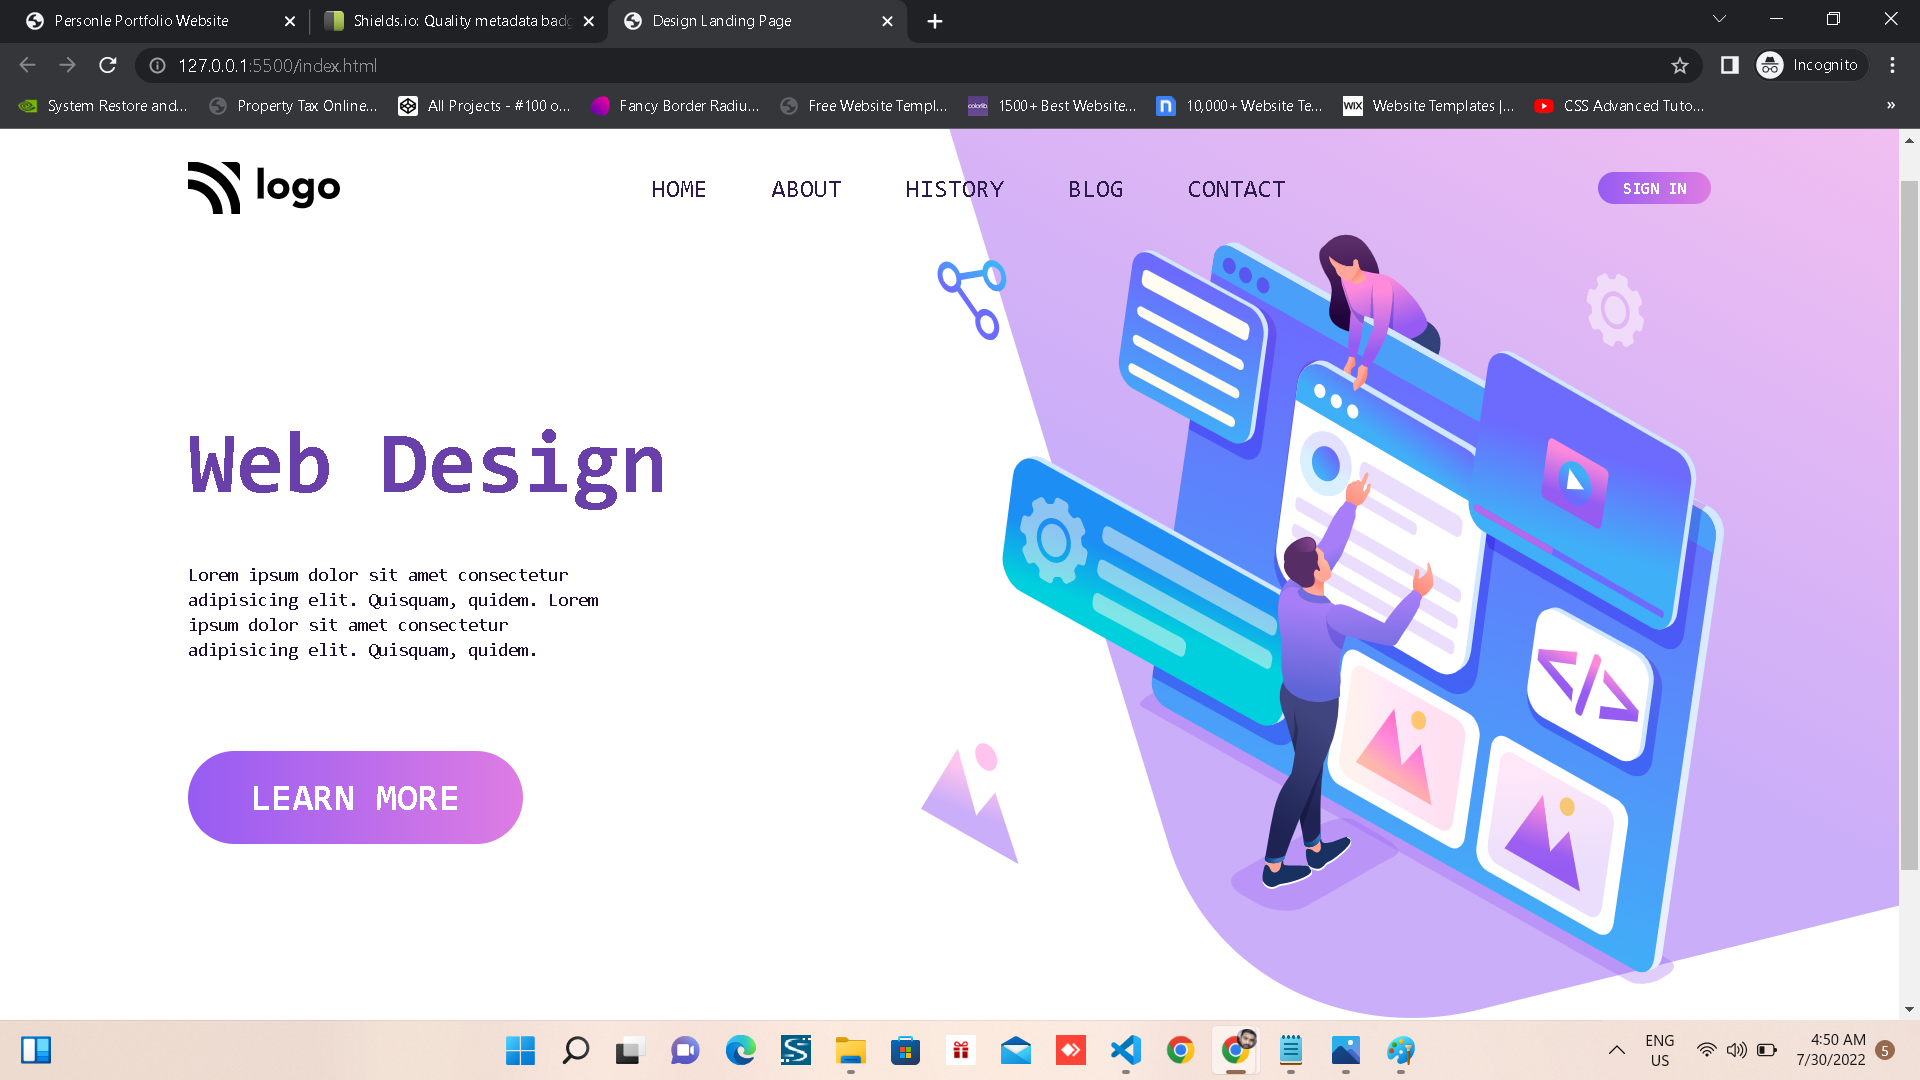
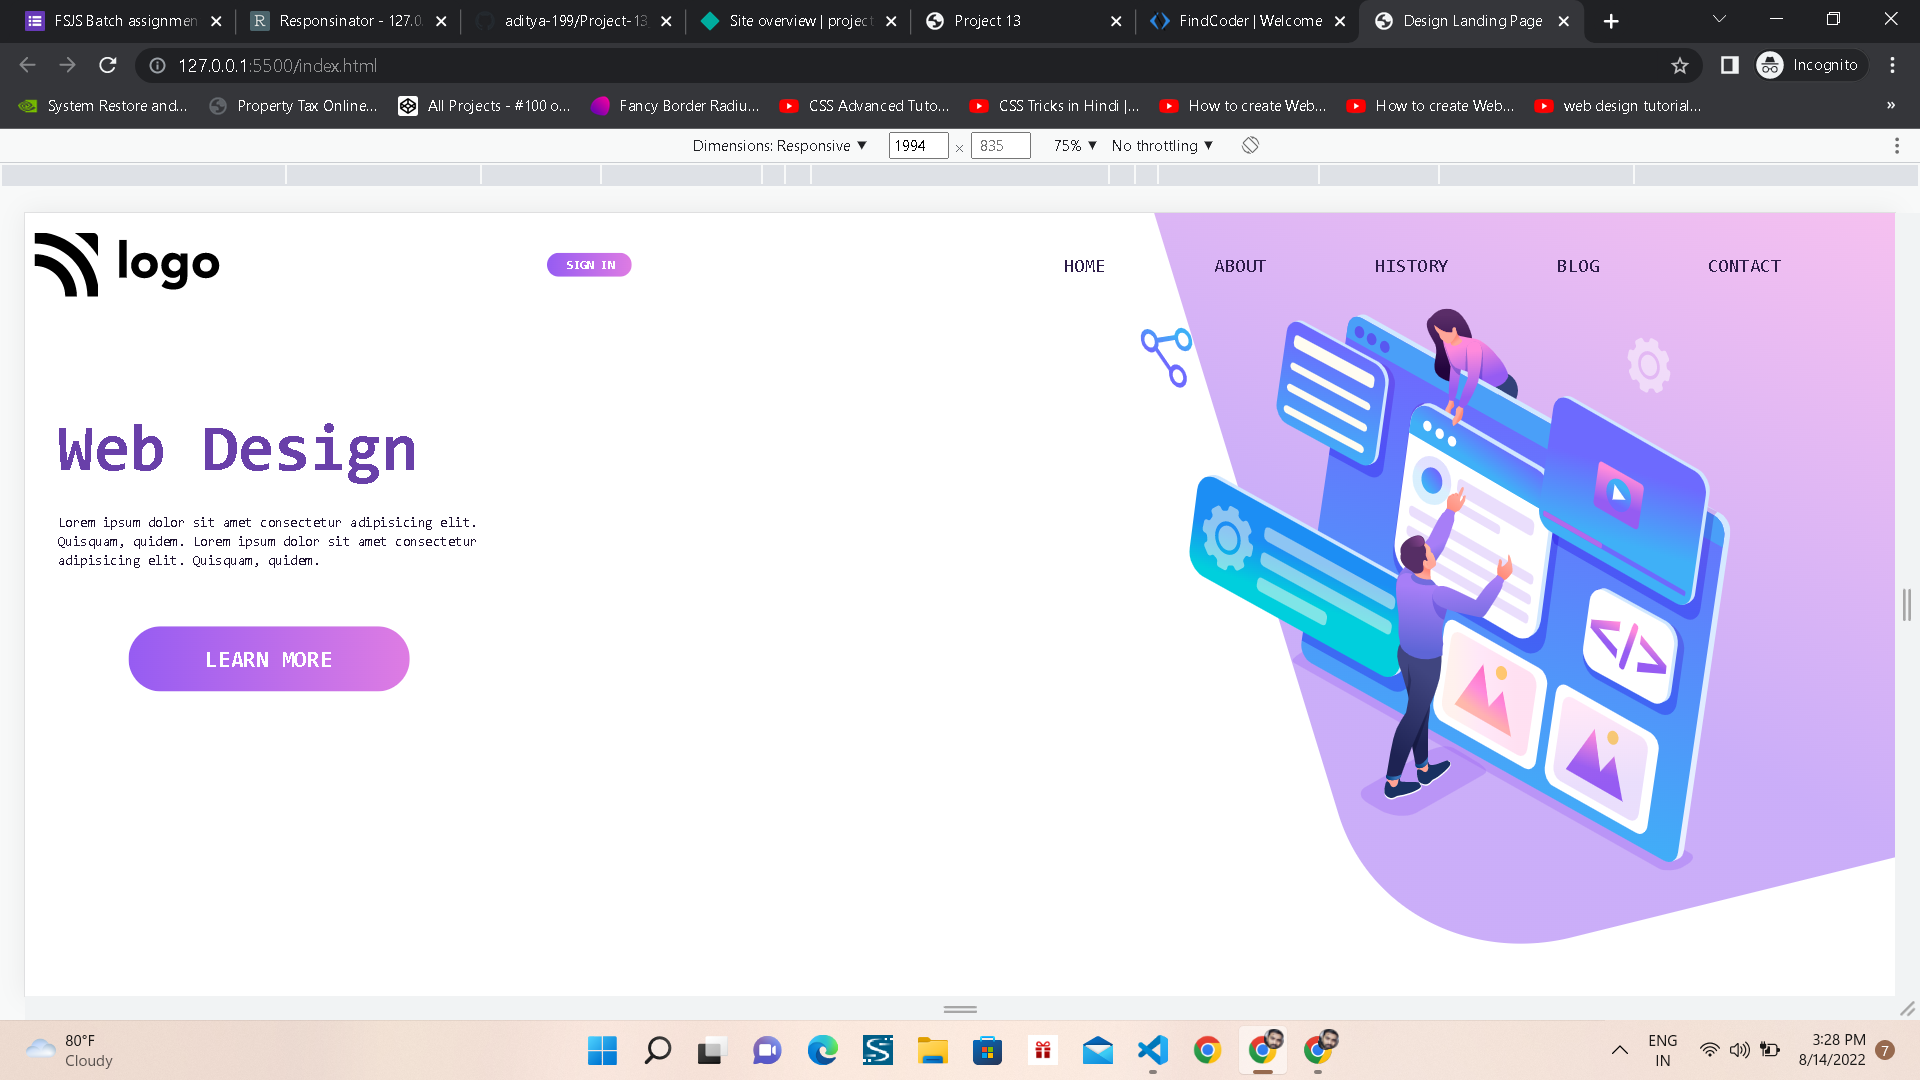
Responsive Design

diff --git a/css/index.css b/css/index.css
@@ -17,7 +17,131 @@ body{
     overflow-x: hidden;
 }
 
+.main-div{
+    padding: 1rem 1rem;
+}
+
+nav{
+    display: flex;
+    flex-wrap: wrap;
+    max-width: 90%;
+    margin: 0 auto;
+    justify-content: space-between;
+    /* background-color: #6940a9; */
+    align-items: center;
+}
+
+nav .logo{
+    max-width: 20%;
+}
+
+nav .hamburger{
+    min-width: 6%;
+    height: 3rem;
+    margin: auto 1rem;
+}
+
+.nav-items{
+    transform: scale(1,0);
+    padding-right: 1rem;
+    width: 100%;
+    font-size: 2rem;
+    font-weight: 500;
+    text-align: right;
+    /* background-color: aqua; */
+    transition: transform .3s linear;
+    transform-origin: top;
+}
+
+.show {
+    transform: scale(1,1);
+}
+
+.nav-item{
+    padding: .5rem;
+}
+
+.signin-btn{
+    padding: 1rem;
+    font-weight: 500;
+    margin: auto 0;
+    align-self: flex-end;
+}
+
+.intro-section{
+    display: flex;
+    flex-direction: column-reverse;
+}
+
+.left-section{
+    max-width: 70%;
+    width: 500px;
+    margin: auto auto;
+    text-align: center;
+    position: relative;
+    top: 0;
+}
+
+.left-section h1{
+    max-width: 100%;
+    font-size: 5rem;
+    padding-bottom: 3rem;
+}
+
+.left-section h4{
+    font-size: 1.5rem;
+    font-weight: 200;
+    line-height: 2rem;
+}
+
+.learn-more-btn{
+    margin-top: 3rem;
+    padding: 2rem 4rem;
+    font-size: 2.2rem;
+    font-weight: 500;
+    border: none;
+    outline: none;   
+}
+
 button{
+    background-image: linear-gradient(to right ,#965CF2,#DE7CE3);
+    border-radius: 4rem;
+    border: none;
+    color: var(--btn-color);
+}
+
+.imgs-div{
+    margin: 0 auto;
+    /* background-color: aqua; */
+}
+
+.imgs-div img{
+    max-width: 80%;
+    z-index: -1;  
+}
+
+.imgs-div .intro-img{
+    position: relative;
+}
+
+.imgs-div .vector-img{
+    max-width: 3.4rem;
+    position: relative;
+    bottom: 2rem;
+    left: 6rem;
+}
+
+.imgs-div .vector-dot{
+    width: 1rem;
+    position: relative;
+    bottom: 5rem;
+    left: 3.5rem;
+}
+
+@media (min-width: 800px){
+ 
+button{
+    /* all: unset; */
     background-image: linear-gradient(to right ,#965CF2,#DE7CE3);
     border-radius: 4rem;
     border: none;
@@ -38,31 +162,33 @@ h4{
 }
 
 .main-div{
-    padding: 2rem 15rem;
+    padding: 2rem 1rem;
     position: relative;
 }
-.main-div::after{
+.main-div::before{
     content: url(/images/backcover.svg);
     position: absolute;
-    right: 0;
-    top: 0;
+    top: -130px;
+    right: 18px;
     z-index: -1;
-    transform: translate(91px, -168px)
+    transform: translate(100px, -3px);
 }
+
 .main-div nav{
+    all: unset;
     display: flex;
     justify-content: space-between;
     align-items: center;
-    width: 100%;
-    height: 12rem;
+    max-width: 100%;
 }
 
 nav img{
+    /* all: unset; */
     width: 10%;
-    /* height: inherit; */
 }
 
 .nav-items{
+    all: unset;
     display: flex;
     height: inherit;
     width: 50%;
@@ -73,79 +199,93 @@ nav img{
 .signin-btn{
     padding: 0.5rem 2rem;
     font-weight: 650;
-    
 }
 
+.hamburger{
+    display: none;
+}
 
 .intro-section{
-    width: 100%;
-    height: 100%;
-    display: flex;
-    justify-content: space-between;
-    /* background-image: linear-gradient(to right ,#965CF2,#DE7CE3); */
-    align-items: flex-start;
+    all: unset;
+    max-width: 100%;
+    /* height: 100%; */
+   display: flex;
+   justify-content: space-between;
+   align-items: flex-start;
 }
 
 .intro-section h1{
-    width: 45rem;
+    /* all: unset; */
+    max-width: 90%;
+    width: 50rem;
     line-height: 8rem;
     font-size: 7rem;
-    margin-bottom: 4rem;
 }
 
 .intro-section h4{
-    width: 35rem;
+    /* all: unset; */
+    max-width: 90%;
+    width: 50rem;
     line-height: 2rem;
     font-weight: 300;
     font-size: 1.5rem;
-    margin-bottom: 7rem;
+    margin-bottom: 3rem;
 }
 
 .left-section{
+    all: unset;
     display: flex;
-    /* margin-top:  */
-    width: 50%;
-    height: 60rem;
+    max-width: 50%;
+    /* height: 60rem; */
     margin-top: 12rem;
-    align-items: flex-start;
-
-    flex-direction: column;
-    
+    align-items: center;
+    flex-direction: column;  
 }
 
 .left-section .learn-more-btn{
+    /* all: unset; */
     padding: 2rem 5rem;
     font-weight: 650;
-    font-size: 3rem;
+    font-size: 2.5rem;
+    max-width: 90%;
+    width: 30rem;
 }
 
 .imgs-div{
-    height: 60rem;
-    width: 50%;
-    display: flex;
-    justify-content: center;
-    align-items: center;
-    position: relative;
-}
-
-.imgs-div img{
-    position: absolute;
+    /* all: unset; */
+        padding: 1rem 2rem;
+        min-width: 60%;
+        /* width: 9rem; */
+        display: flex;
+        justify-content: flex-end;
+        align-items: flex-end;
+        position: relative;
+        margin: 8rem auto;
+        align-content: center;
 }
 
 .imgs-div img:first-child{
-    left: -33px;
-    bottom: 107px;
-    transform: scale(0.8);
+    left: 12rem;
+    bottom: -41rem;
+    transform: scale(2);
+    display: none;
+
 }
 
 .imgs-div img:nth-child(2){
-    left: 20px;
-    bottom: 193px;
+    left: 14rem;
+    all: unset;
+    bottom: -36rem;
+    transform: scale(2);
+    position: absolute;
+    display: none;
 }
 
 .imgs-div img:last-child{
-    /* width: 1re; */
+    /* all: unset; */
     height: 60rem;
     position: absolute;
-    top: -23px; 
+    top: -69px; 
+}
+
 }

diff --git a/index.html b/index.html
@@ -15,16 +15,21 @@
 <body>
   <div class="main-div">
     <nav>
-      <img src="./images/logo.svg" alt="logo" />
-      <div class="nav-items">
+      <img src="./images/logo.svg" class="logo" alt="logo" />
+      
+      <button class="signin-btn">SIGN IN</button>
+      
+      <img src="/images/hamburger.png" class="hamburger" alt="hamburger">
+
+      <div class="nav-items ">
         <h5 class="nav-item">HOME</h5>
         <h5 class="nav-item">ABOUT</h5>
         <h5 class="nav-item">HISTORY</h5>
         <h5 class="nav-item">BLOG</h5>
         <h5 class="nav-item">CONTACT</h5>
       </div>
-      <button class="signin-btn">SIGN IN</button>
     </nav>
+
     <div class="intro-section">
       <div class="left-section">
         <h1>Web Design</h1>
@@ -38,11 +43,13 @@
       <div class="imgs-div">
         <img src="./images/vector.svg" alt="vector-img" class="vector-img" />
         <img src="./images/vector-dot.svg" alt="vector-dot" class="vector-dot" />
-        <img src="./images/intro-img.svg" alt="intro-img" />
+        <img src="./images/intro-img.svg" alt="intro-img" class="intro-img"/>
         <!-- <img class="backcover" src="./images/backcover.svg" alt="backcover"> -->
       </div>
     </div>
   </div>
+
+  <script src="/index.js"></script>
 </body>
 
 </html>

diff --git a/index.js b/index.js
@@ -1,0 +1,7 @@
+const hamburger = document.querySelector(".hamburger");
+
+const navList = document.querySelector(".nav-items");
+
+hamburger.addEventListener('click', () => {
+    navList.classList.toggle('show');
+});

diff --git a/readme.md b/readme.md
@@ -3,12 +3,13 @@
 ## _Name : Aditya Bankar_
 
 ![](./screenshot8.png)
+![](./screenshot8mobile.png)
 
-> About 
-   This project takes a dive into the position of the background. The adjustment of the image icons n many more.
-    I learnt about how to practice in Html and Css
+> About :
+   This project takes a dive into the position of the background. The adjustment of the image icons and many more.
+    I learnt about how to practice in Html and Css.
 
-    Time Take 
-    4hr
+>   It is a responsive website
 
-    Thank you
+### Time Take: 
+>4hr
